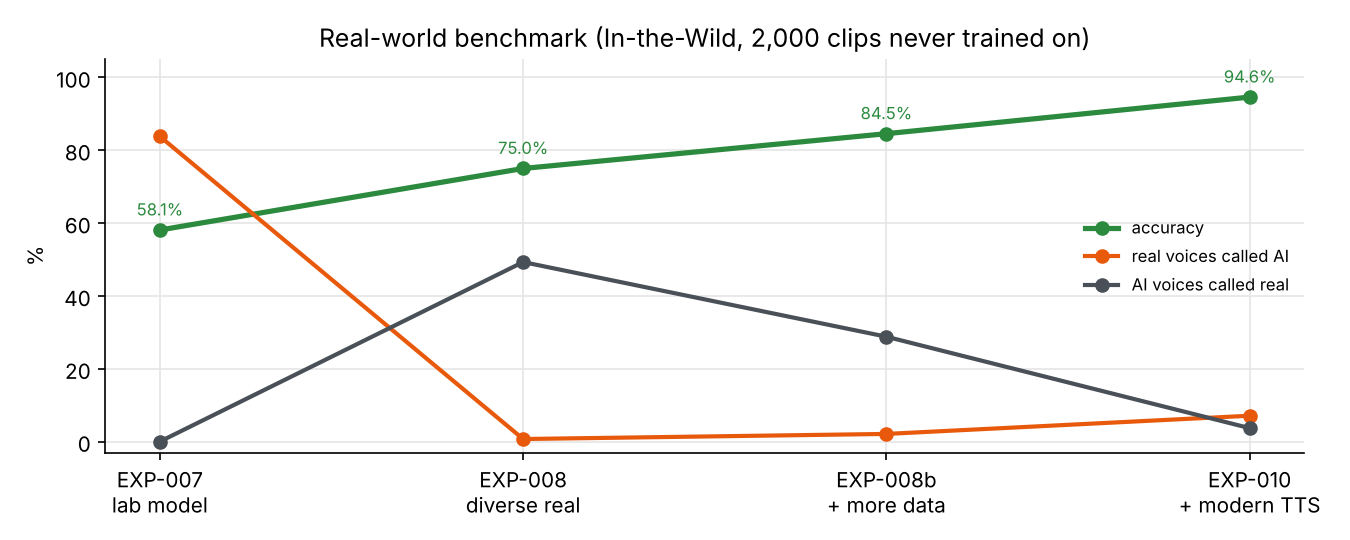
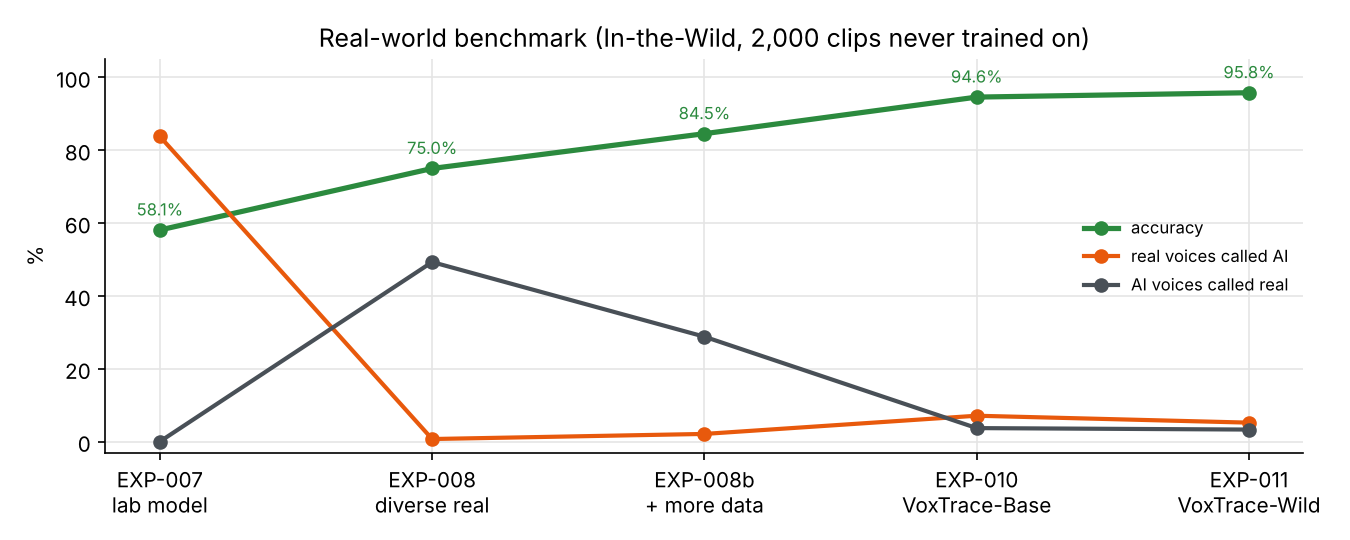
README and experiment log: EXP-011 fine-tuning with more data (SpoofCeleb) producing VoxTrace-Wild, EXP-010b standby and SpoofCeleb test write-ups, model names, updated results and graphs

diff --git a/README.md b/README.md
@@ -10,19 +10,26 @@ detectors are trained on clean studio audio, while real scam audio arrives heavi
 This project builds a detector for the audio people *actually* receive: one compressed file, no original to compare.
 
 ## Result
-The final model (**EXP-010**) reaches **94.6% accuracy on 2,000 real-world clips it never saw**, catches
-**98.5% of voices from 31 AI voice tools it was never trained on** (ElevenLabs, OpenAI, MiniMax, Qwen …), and
-passed a live test with real and AI voices shared over WhatsApp.
+Two detectors, selectable in the app, built on the same design:
+
+| Model | Trained on | In-the-Wild (2,000 real-world clips) | 31 unseen AI voice tools | SpoofCeleb evaluation |
+|---|---|---|---|---|
+| **VoxTrace-Wild** (default, EXP-011) | 5 datasets + 120,000 in-the-wild celebrity clips (SpoofCeleb), 64/32/16/8 kbps | **95.8%** (EER 3.8%) | **99.1%** (EER 0.7%) | **99.7%** |
+| **VoxTrace-Base** (EXP-010) | 5 datasets incl. 143 modern TTS / cloning systems (MLAAD) | 94.8% (EER 5.0%) | 98.7% (EER 1.3%) | 75.0% |
+
+All test sets were never used for training. The 31 tools include ElevenLabs, OpenAI, MiniMax and Qwen. Both models
+passed live tests with real and AI voices shared over WhatsApp.
 
 ![Real-world benchmark across experiments](mapped_results/journey_in_the_wild.png)
 
-| Test (never trained on) | Accuracy | Real voice called AI | AI voice called real | EER |
+| VoxTrace-Wild, test never trained on | Accuracy | Real voice called AI | AI voice called real | EER |
 |---|---|---|---|---|
-| In-the-Wild: 2,000 clips of 58 public figures from online videos | **94.6%** | 7.1% | 3.7% | 5.1% |
-| MLAAD: 31 held-out TTS / voice-cloning systems | **98.5%** | 0.1% | 3.0% | 1.2% |
-| ASVspoof 2019 LA (unseen attacks), clean / MP3 16 kbps | 97.9 / 97.0% | 0.4 / 1.2% | 3.8 / 4.8% | 1.8 / 2.8% |
+| In-the-Wild, original / WhatsApp-quality (Opus 16 kbps) | **95.8 / 94.8%** | 5.2 / 7.3% | 3.3 / 3.2% | 3.8 / 4.6% |
+| MLAAD: 31 held-out TTS / voice-cloning systems | **99.1%** | 0.3% | 1.5% | 0.7% |
+| SpoofCeleb evaluation (9 unseen attack systems) | **99.7%** | 0.2% | 0.5% | 0.2% |
+| ASVspoof 2019 LA (unseen attacks), original / Opus 16 kbps | 98.5 / 98.4% | 0.4 / 1.6% | 2.6 / 1.6% | 1.8 / 1.6% |
 
-## The final model (EXP-010)
+## The model (VoxTrace)
 ```
 any audio file ─► FFmpeg decode (16 kHz mono) ─► 4 s windows, 50% overlap
    └─► WavLM-Base+ (CNN + 12 transformer layers, top 8 fine-tuned)
@@ -30,15 +37,19 @@ any audio file ─► FFmpeg decode (16 kHz mono) ─► 4 s windows, 50% overla
          └─ texture branch: learned weights over layers 0–6    ─► attentive stats pooling ─► MLP ─┴─► summed score
    ─► median over speech windows ─► Platt calibration ─► verdict + timeline + 6 diagnostic images
 ```
-- **Training data (39,472 clips, balanced real/AI inside every source):** ASVspoof 5 (crowdsourced speakers),
-  Fake-or-Real, LibriSeVoc (6 neural vocoders), ASVspoof 2019 LA, and **MLAAD** (143 modern TTS / cloning systems).
-- **Compression robustness:** every clip also has a copy encoded with MP3 / Opus / AAC at 8–64 kbps, so the model
-  learns the voice, not the codec.
-- **Texture branch:** diagnostics showed the earlier model judged only by how *natural* the speech sounded (top
+- **Texture branch:** diagnostics showed an earlier model judged only by how *natural* the speech sounded (top
   WavLM layer). The second branch looks only at the low "sound texture" layers, where synthesis artefacts live.
-- **Honest testing:** 31 TTS systems kept out of training entirely; In-the-Wild and ASVspoof 2019 eval never trained on.
+- **VoxTrace-Base (EXP-010):** 39,472 clips from ASVspoof 5, Fake-or-Real, LibriSeVoc, ASVspoof 2019 LA and
+  **MLAAD** (143 modern TTS systems; 31 held out for testing), each with one random MP3/Opus/AAC copy at 8–64 kbps.
+- **VoxTrace-Wild (EXP-011):** the same data + 120,000 **SpoofCeleb** clips (real celebrity speech from online
+  videos and AI voices built from it), every clip trained original + 64k + 32k, 16k for 35% and 8k for 10%:
+  **550,259 examples**, compressed on the fly. The extra in-the-wild real speech removed a hidden weakness of
+  VoxTrace-Base (it flagged 46% of real interview-style voices) and improved every real-world test.
+- **Honest testing:** whole TTS systems and attack systems held out; In-the-Wild and ASVspoof 2019 eval never trained on.
 
 ![Detection rate per unseen AI voice system](mapped_results/EXP-010_modern_tts/2_unseen_tts_systems.png)
+
+![VoxTrace-Base vs VoxTrace-Wild](mapped_results/EXP-011_spoofceleb_finetune/1_accuracy_all_tests.png)
 
 ## How we got here
 Full write-ups in [`EXPERIMENT_LOG.md`](EXPERIMENT_LOG.md); graphs for every experiment in [`mapped_results/`](mapped_results/).
@@ -68,14 +79,20 @@ Full write-ups in [`EXPERIMENT_LOG.md`](EXPERIMENT_LOG.md); graphs for every exp
   showed why: the decision came almost only from WavLM's top layer, which judges naturalness, and the training
   fakes were all older-generation TTS.
 
-**What we applied in EXP-010:** modern TTS fakes (MLAAD), a texture branch on the low layers, more fine-tuned layers,
-held-out generators for honest testing, and live tests before claiming success.
+**What worked**
+- **EXP-010 · VoxTrace-Base.** Modern TTS fakes (MLAAD), a texture branch on the low layers and more fine-tuned
+  layers: In-the-Wild 84.5% → 94.6%, 98.5% on 31 unseen TTS systems, and the first model to pass the live test.
+- **EXP-010b · Standby for re-compressed audio (not deployed).** A copy of EXP-010 topped up on audio compressed
+  twice: fewer false alarms on forwarded audio, but more missed fakes and a lower lab score, so it was kept aside.
+- **EXP-011 · VoxTrace-Wild.** Tested EXP-010 on SpoofCeleb: it caught 98.8% of the fakes but flagged 46% of the
+  real celebrity voices. Retraining the same design on EXP-010's data + 120,000 SpoofCeleb clips with a stronger
+  compression schedule fixed that (0.2%) and improved In-the-Wild (EER 5.0 → 3.8%) and unseen-TTS results.
 
 ## Web app
 `run_app.bat` starts a local web app (FastAPI, nothing leaves the machine; uploads are deleted after analysis).
-Upload a voice note, optionally pick the source app, and get a verdict, a per-window confidence timeline and six
+Upload a voice note, choose VoxTrace-Wild or VoxTrace-Base, optionally pick the source app, and get a verdict, a per-window confidence timeline and six
 diagnostic images (spectrogram, time × frequency map, frequency-band and WavLM-layer importance, attention,
-acoustic profile). Results are probabilistic and are not legal evidence.
+acoustic profile), computed in memory and never stored. Results are probabilistic and are not legal evidence.
 
 ## Setup and run
 ```bash
@@ -85,23 +102,23 @@ pip install -r requirements.txt
 ```
 | Step | Command |
 |---|---|
-| Download datasets | `download_datasets.bat`, `download_mlaad.bat` (needs `HF_TOKEN`, MLAAD terms accepted) |
-| Train + test the final model | `run_exp010.bat` |
+| Download datasets | `download_datasets.bat`, `download_mlaad.bat`, SpoofCeleb via `overnight_spoofceleb_train.bat` (needs `HF_TOKEN`; MLAAD and SpoofCeleb terms accepted) |
+| Train + test the models | `run_exp010.bat` (VoxTrace-Base), `overnight_spoofceleb_train.bat` (SpoofCeleb download + VoxTrace-Wild) |
 | Web app | `run_app.bat` → http://127.0.0.1:7860 |
-| Earlier experiments | `run_exp006.bat` … `run_exp009b.bat`, or `python experiments/<script>.py` |
+| Earlier experiments | `run_exp006.bat` … `run_exp011.bat`, or `python experiments/<script>.py` |
 
 Datasets and pretrained weights are **not** included; links and paths are listed in `requirements.txt`.
 
 ## Repository layout
 ```
-src/models/     WavLM detector (main + texture branch), RawNet2, Δ-Net
+src/models/     VoxTrace detector (WavLM + main and texture branch), RawNet2, Δ-Net
 src/app/        web app: server, diagnostics, single-page UI
 src/data/       audio loading, FFmpeg codec simulation, manifests
 src/evaluation/ EER / AUC / bootstrap CI, Platt calibration
 experiments/    one script per experiment
-mapped_results/ graphs per experiment (EXP-001 … EXP-010)
+mapped_results/ graphs per experiment (EXP-001 … EXP-011)
 ```
 
 ## Data & licences
-ASVspoof 2019/5, Fake-or-Real, LibriSeVoc, In-the-Wild and MLAAD (CC BY-NC 4.0) are distributed by their authors
+ASVspoof 2019/5, Fake-or-Real, LibriSeVoc, In-the-Wild, MLAAD (CC BY-NC 4.0) and SpoofCeleb (CC BY 4.0) are distributed by their authors
 under their own licences and are not redistributed here. Research use only.

diff --git a/EXPERIMENT_LOG.md b/EXPERIMENT_LOG.md
@@ -202,3 +202,33 @@
 - **Caveats:** MLAAD held-out reals are audiobooks (same family as training reals) → In-the-Wild is the more honest real-world number. False alarms rose 2.1 → 7.1%.
 - **Decision:** EXP-010 is the deployed model (web app default). Backup for extreme re-compression evaluated separately (EXP-010b, not deployed).
 - **Graphs:** `mapped_results/EXP-010_modern_tts/`.
+
+## EXP-010b · 2026-11-25 · Standby copy of EXP-010 for re-compressed audio (NOT deployed) — **BETTER ON DOUBLE-COMPRESSED REAL-WORLD AUDIO, WORSE ON LAB DATA; kept as standby**
+- **Goal:** a backup for evaluators' extreme cases (audio compressed repeatedly) without touching EXP-010.
+- **Setup:** copy of EXP-010 (all prior training kept), short top-up: 1,500 AI + 1,000 real (deliberately asymmetric 60/40) from EXP-010's train manifest, each compressed twice with the same codec + bitrate (MP3/Opus/AAC × 64k/32k/16k; no 8k); 70% double-compressed / 30% original per example; 2 epochs, LR 5e-6 / 1e-4 (~2 min); own calibration on 600 val clips (original + double). Saved as `models/exp010b_wavlm_ft.pt`; the app still uses EXP-010.
+- **Observed (accuracy %, EXP-010 → EXP-010b):** In-the-Wild clean 94.6 → 94.3; 2×64k 91.8 → 92.7; 2×32k 89.6 → 90.1; 2×16k 86.0 → **87.9**; MLAAD held-out clean 98.5 → 98.5; 2×16k 95.2 → 96.0; ASVspoof 2019 clean 97.9 → **96.3**; MP3 16k 97.0 → **94.4**.
+- **Errors at In-the-Wild 2×16k:** false alarms 24.2% → 14.9%; misses 3.9% → 9.3%.
+- **McNemar:** 010b better at ITW 2×64k (p = 0.036), ITW 2×16k (p = 0.002), MLAAD 2×16k (p = 0.044); no difference on clean ITW/MLAAD and ITW 2×32k; 010 better on ASVspoof 2019 clean (p < 0.001) and 16k (p < 0.001).
+- **Why:** EER is not better overall (ITW 2×16k 11.4 → 12.0%); the gain comes mostly from a more forgiving decision point for damaged audio (fewer false alarms, more misses).
+- **Decision:** keep EXP-010 deployed; keep 010b as a standby for heavily re-compressed demo audio, presented with its trade-off.
+- **Graphs:** `mapped_results/EXP-010b_double_compression_backup/`.
+
+## EXP-011 · 2026-11-26/27 · More data: SpoofCeleb test, then a new model fine-tuned on EXP-010 data + SpoofCeleb — **SUCCESS (VoxTrace-Wild)**
+- **Goal:** (a) test the deployed EXP-010 on SpoofCeleb (gated; real speech = VoxCeleb celebrities in the wild, fakes = TTS trained on in-the-wild data); (b) train a new model on even more, and more varied, data without touching EXP-010.
+- **(a) Test only:** the 134 GB archive was streamed (evaluation files kept); the stream stopped at ~127 GB after evaluation attack a23. EXP-010 caught **98.8%** of a23's 6,792 AI clips (98.2% at Opus 16k); real side = 2,000 In-the-Wild clips (false alarms 8.3%, 14.5% at Opus 16k). Fakes were not the problem.
+- **(b) Data:** full SpoofCeleb downloaded (2,687,300 files, single-connection stream, ~10.5 h). Training = EXP-010 manifest (39,472 clips) + SpoofCeleb train 60,000 real (a00) + 60,000 AI (6,000 from each of a01–a10) = 159,472 clips. Compression applied on the fly (in memory, nothing stored): every clip original + 64k + 32k; 16k for 35% of clips; 8k for 10% (MP3 / Opus / AAC at random) → **550,259 training examples** (14× EXP-010).
+- **Model (VoxTrace-Wild):** same architecture as EXP-010 (WavLM-Base+, top 8 layers fine-tuned, main branch + texture branch), trained **from scratch**, one pass, batch 12, OneCycle LR (2e-5 / 1e-3), 0.17 s/step, **2.1 h**. Calibrated on EXP-010 val + 2,000 SpoofCeleb development clips (original + 16/32k copies): val EER 1.27%, AUC 0.9988.
+- **Observed (same files and scoring for both; never trained on; accuracy % / real→AI % / EER %):**
+  | test | VoxTrace-Base (EXP-010) | VoxTrace-Wild (EXP-011) |
+  |---|---|---|
+  | In-the-Wild 2,000, original | 94.8 / 6.3 / 5.0 | **95.8 / 5.2 / 3.8** |
+  | In-the-Wild, Opus 16k | 93.1 / 10.0 / 5.8 | **94.8 / 7.3 / 4.6** |
+  | MLAAD 31 unseen systems, original / Opus 16k | 98.7 / 98.4 (EER 1.3 / 1.3) | **99.1 / 99.1 (EER 0.7 / 1.0)** |
+  | SpoofCeleb eval (1,500 real + 1,494 AI, attacks a15–a23), original | 75.0 / **46.3** / 16.0 | **99.7 / 0.2 / 0.2** |
+  | SpoofCeleb eval, Opus 16k | 68.4 / **60.4** / 19.0 | **99.6 / 0.3 / 0.4** |
+  | ASVspoof 2019 1,000, original / Opus 16k | **99.0 / 99.1** (EER 1.2 / 1.0) | 98.5 / 98.4 (EER 1.8 / 1.6) |
+- **Impact of the new data:** (1) EXP-010 hid a large weakness: it flagged **46–60% of SpoofCeleb's real interview-style voices as AI** while still catching its fakes; the new data removes it (0.2–0.3%). (2) Gains carry over to sets neither model trained on: In-the-Wild EER 5.0 → 3.8%, false alarms at Opus 16k 10.0 → 7.3%; unseen-TTS EER halved (1.3 → 0.7%). (3) Compression costs less (In-the-Wild: −1.0 pt at Opus 16k vs −1.7). (4) Only loss: ~0.5 pt on the 2019 studio benchmark.
+- **Caveats:** SpoofCeleb evaluation shares the recording style of the new training data (speakers and attack systems differ), so In-the-Wild and MLAAD are the cleanest comparisons; no McNemar test was run here. EXP-010 numbers differ slightly from its own log (94.8 vs 94.6%) because this script windows files slightly differently; both models were scored identically.
+- **Live test (user, app):** 2 real voices (own voice, film audio) + 1 AI clone, all correct; layer occlusion shows the top WavLM layers now vote **AI** on the clone (they voted "human" for every clone under EXP-008b).
+- **Decision:** both models kept and selectable in the app; **VoxTrace-Wild is the default**, VoxTrace-Base the alternative. Diagnostic images are no longer saved to disk.
+- **Graphs:** `mapped_results/EXP-011_spoofceleb_finetune/`.
